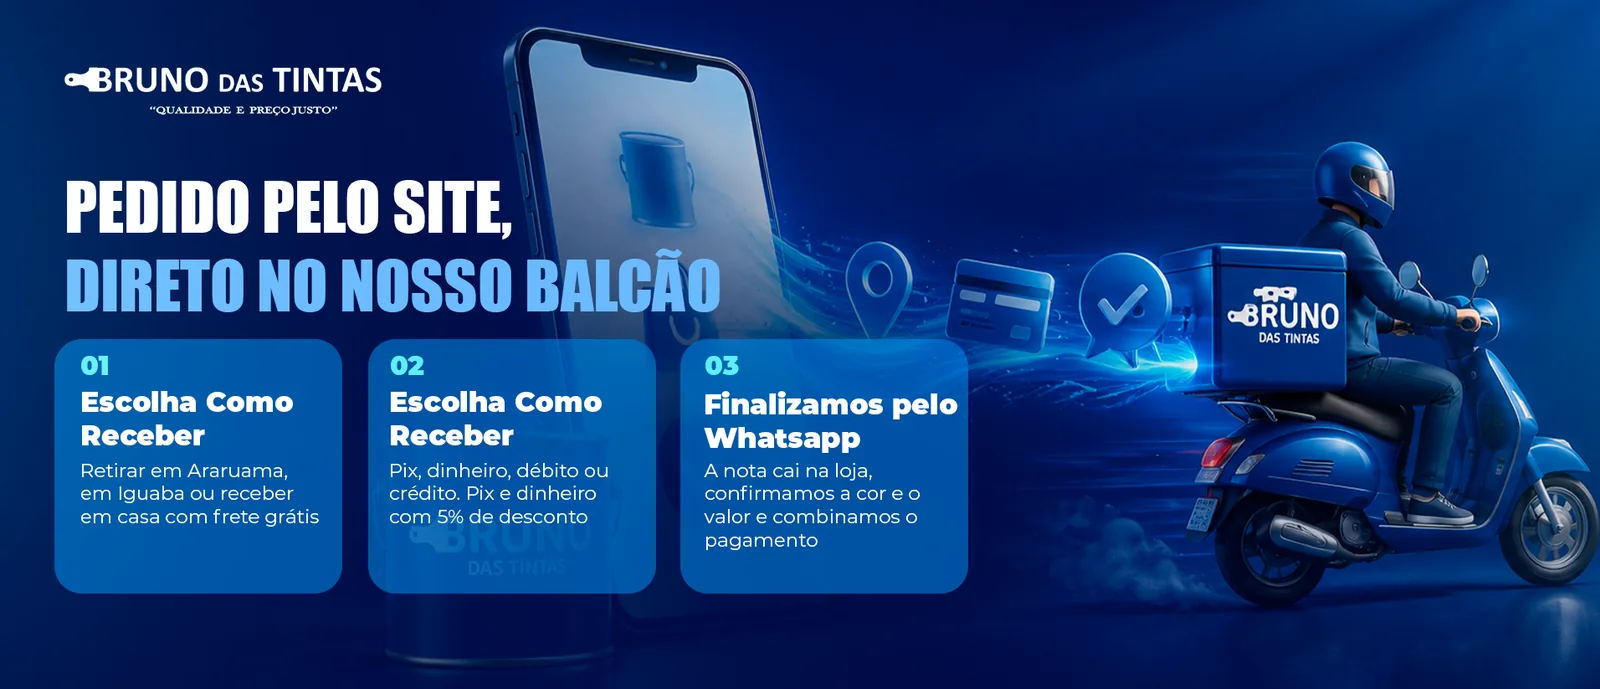
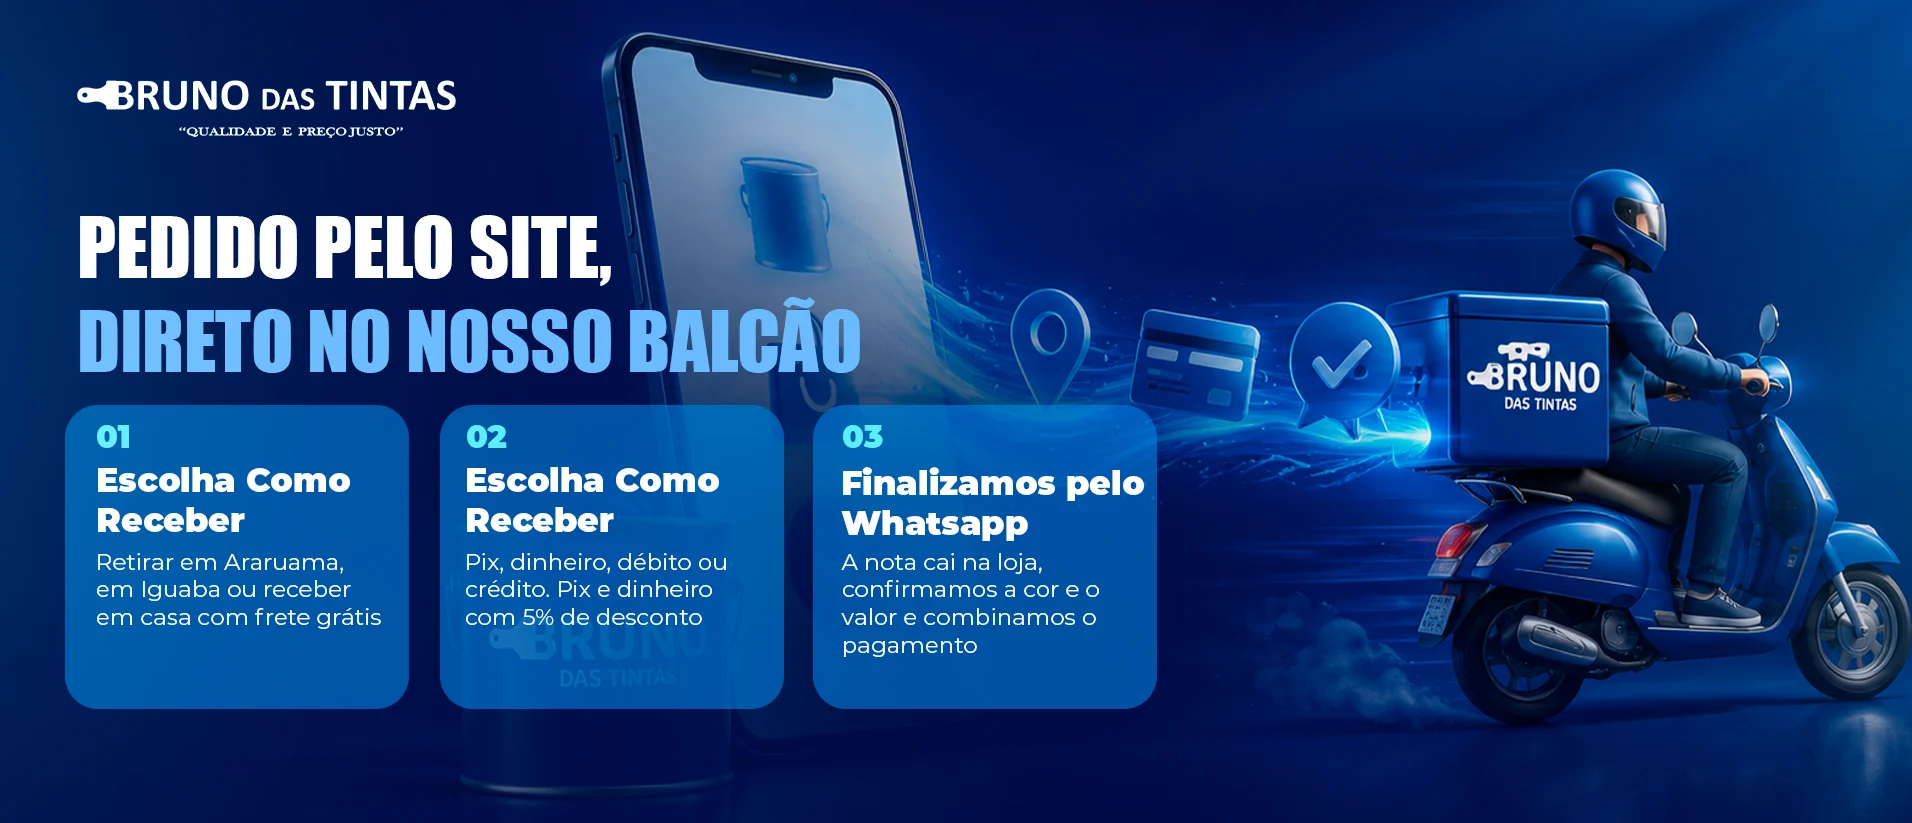
Põe as artes inteiras, na proporção original, também no celular
O Roberto reparou que eu tinha cortado as artes. Estava cortando em dois
níveis: recortava o arquivo E ainda aplicava object-fit:cover por cima.

Desfeitos os dois. Agora é uma arte por seção, nas dimensões originais
1912x823, o mesmo arquivo servindo as duas telas. Proporção medida na
tela: 2.3232, idêntica à do arquivo.

Saíram o <picture> com troca por breakpoint e as variantes -mobile: com
um arquivo só, não há como uma versão divergir da outra depois. E a arte
de "Como comprar", que era só-desktop, passa a aparecer no celular.

Custo assumido e registrado: 2.32 de proporção em 375px dá 161px de
altura, e o texto desenhado na arte fica pequeno. Por isso o título em
HTML continua acima dela no celular — ele é quem carrega a mensagem de
forma legível e indexável. A frase acaba aparecendo duas vezes na mesma
tela, uma em HTML e outra dentro da arte.

diff --git a/index.html b/index.html
@@ -119,13 +119,11 @@
     <p class="capa__sub">Confira nossa ampla variedade de tintas e acessórios e deixe sua casa nova.</p>
   </div>
 
-  <!-- picture em vez de duas <img> com display:none: assim o navegador baixa
-       exatamente uma arte, em vez de baixar as duas e descartar uma. -->
-  <picture>
-    <source media="(min-width:900px)" srcset="artes/capa-desktop.webp" width="1912" height="823">
-    <img class="capa__img" src="artes/capa-mobile.webp" width="1080" height="609" fetchpriority="high"
-         alt="Latas de Tinta Premium Rende Muito da Bruno das Tintas, com rolo e pincel">
-  </picture>
+  <!-- Uma arte só, nas dimensões originais (1912x823), nas duas telas.
+       Sem <picture> e sem recorte: a proporção é exatamente a que veio do
+       designer, e o celular mostra a arte inteira, só que menor. -->
+  <img class="capa__img" src="artes/capa.webp" width="1912" height="823" fetchpriority="high"
+       alt="Às vezes a sua casa não precisa de uma obra, precisa de uma pintura nova. Latas de Tinta Premium Rende Muito da Bruno das Tintas.">
 
   <div class="capa__ctas">
     <div class="wrap">
@@ -170,15 +168,8 @@
       <p>Escolha o que precisa e mande. A cor a gente acerta com você no WhatsApp — tem cor pronta e tem cor feita na máquina, depende da linha.</p>
     </div>
     <h2 class="sr-only so-desk">Monte seu pedido sem sair de casa</h2>
-    <!-- A arte existe nas duas telas, mas não é a mesma imagem: a versão de
-         desktop traz o título desenhado; a de celular é só a foto, porque ali
-         o título já é o <h2> em HTML logo acima e texto embutido em arte
-         larga fica ilegível em 375px. -->
-    <picture class="arte-secao">
-      <source media="(min-width:900px)" srcset="artes/secao-catalogo.webp" width="1600" height="689">
-      <img src="artes/secao-catalogo-mobile.webp" width="800" height="773" loading="lazy"
-           alt="Entregador da Bruno das Tintas de moto, com lata de Tinta Premium Rende Muito">
-    </picture>
+    <img class="arte-secao" src="artes/secao-catalogo.webp" width="1912" height="823" loading="lazy"
+         alt="Monte o seu pedido sem sair de casa. Entregador da Bruno das Tintas de moto, com lata de Tinta Premium Rende Muito.">
     <div class="busca">
       <svg width="18" height="18" viewBox="0 0 24 24" fill="none" stroke="#55688A" stroke-width="2" stroke-linecap="round"><circle cx="11" cy="11" r="7"/><path d="m20 20-3.5-3.5"/></svg>
       <input type="search" id="busca" placeholder="Buscar tinta, massa, rolo..." aria-label="Buscar produtos">
@@ -217,7 +208,7 @@
       <div class="passo"><div class="passo__n display">04</div><h3>A gente fecha no WhatsApp</h3><p>A nota cai na loja, confirmamos a cor e o valor, e combinamos o pagamento.</p></div>
     </div>
     <h2 class="sr-only so-desk">Pedido pelo site, direto no nosso balcão</h2>
-    <img class="arte-secao arte-secao--solta so-desk" src="artes/secao-como-comprar.webp" width="1600" height="689" loading="lazy"
+    <img class="arte-secao arte-secao--solta" src="artes/secao-como-comprar.webp" width="1912" height="823" loading="lazy"
          alt="Pedido pelo site, direto no nosso balcão. Passo 1: escolha como receber — retirar em Araruama, em Iguaba, ou receber em casa com frete grátis. Passo 2: escolha como pagar — PIX, dinheiro, débito ou crédito, com 5% de desconto no PIX e no dinheiro. Passo 3: finalizamos pelo WhatsApp — a nota cai na loja, confirmamos a cor e o valor e combinamos o pagamento.">
   </div>
 </section>

diff --git a/styles.css b/styles.css
@@ -248,14 +248,10 @@ a{color:inherit;text-decoration:none}
 }
 /* dentro de seção azul a arte já tem o próprio fundo: sem borda clara */
 .arte-secao--solta{border:none;box-shadow:none;margin-bottom:0}
-/* quando a arte é um <picture>, ele é o container arredondado e a <img> preenche */
-picture.arte-secao{display:block;overflow:hidden}
-picture.arte-secao img{width:100%;height:auto;display:block;border-radius:inherit}
-/* no celular a foto entra como faixa: altura controlada para não empurrar o
-   catálogo para baixo da dobra */
-@media (max-width:899px){
-  picture.arte-secao img{aspect-ratio:16/10;object-fit:cover;object-position:center 40%}
-}
+/* As artes entram INTEIRAS, na proporção original de 1912x823. Nada de
+   aspect-ratio forçado nem object-fit:cover aqui: qualquer um dos dois
+   recortaria a arte, e a composição é do designer, não minha. No celular ela
+   aparece menor, nunca cortada. */
 .secao--arte{padding:var(--e12) 0}
 
 .faixa-arte{display:block;line-height:0;border-radius:var(--raio-g);overflow:hidden;box-shadow:var(--sombra-alta)}

diff --git a/docs/ARQUITETURA-TELAS.md b/docs/ARQUITETURA-TELAS.md
@@ -9,25 +9,37 @@ Ponto de corte: **900px**.
 
 | # | Seção | Desktop (≥900px) | Celular (<900px) | Por quê |
 |---|---|---|---|---|
-| 1 | **Capa** | Arte inteira `capa-desktop.webp`, com título desenhado | Título em HTML + `capa-mobile.webp` (só as latas) | Texto embutido em arte de 2.32 fica com ~5px numa tela de 375px. No celular o título é HTML de verdade e a arte entra só como imagem. |
+| 1 | **Capa** | `capa.webp` inteira (1912×823) | A **mesma** `capa.webp` inteira, menor | Uma arte só, sem recorte. O título em HTML continua acima no celular, porque na arte reduzida ele fica pequeno demais para ler. |
 | 2 | **Destaque da semana** | Faixa horizontal, foto de 300px à esquerda | Card, miniatura de 68px ao lado do preço | Mesmo DOM, grid recoloca. O desktop tem largura sobrando; o celular não. |
 | 3 | **Setores** | 4 cards | 4 cards em trilho rolável | Igual nas duas. |
-| 4 | **Catálogo** | Arte `secao-catalogo.webp`, com título desenhado | Título em HTML + `secao-catalogo-mobile.webp` (motoboy e lata) | Mesma lógica da capa. |
+| 4 | **Catálogo** | `secao-catalogo.webp` inteira | A **mesma**, inteira, menor | Mesma regra da capa. |
 | 5 | **Marcas** | Trilho | Trilho | Igual. |
-| 6 | **Como comprar** | Arte `secao-como-comprar.webp` — os 3 passos estão desenhados nela | 4 cards de passo em HTML, **sem arte** | Aqui os passos são conteúdo, não enfeite. No celular eles precisam ser texto legível e selecionável. Uma imagem a mais só empurraria os passos para baixo. |
+| 6 | **Como comprar** | `secao-como-comprar.webp` inteira | A **mesma**, inteira, mais os 4 cards de passo em HTML | A arte aparece nas duas telas. Os 4 cards continuam no celular porque ali os passos precisam ser texto legível. |
 | 7 | **Lojas** | 2 cards lado a lado | 2 cards empilhados | Igual em conteúdo. |
 
 ## Regras que valem para o site inteiro
 
-1. **Arte com texto embutido nunca vai inteira para o celular.** O celular recebe
-   o recorte da imagem, e o texto vira HTML.
-2. **Uma imagem por tela, nunca duas.** Toda troca de arte usa `<picture>` com
-   `media`, então o navegador baixa exatamente a que vai mostrar. Antes existiam
-   duas `<img>` com `display:none` e as duas eram baixadas.
+1. **Arte nunca é recortada.** Uma imagem por arte, nas dimensões originais
+   (1912×823, proporção 2.3232), igual nas duas telas. No celular ela aparece
+   menor, nunca cortada. Nada de `object-fit:cover` nem `aspect-ratio` forçado
+   sobre arte — a composição é do designer.
+2. **Uma imagem por arte, nunca duas.** Sem `<picture>` e sem variante por
+   tamanho: o mesmo arquivo serve as duas telas, então não há como uma versão
+   divergir da outra com o tempo.
 3. **O `<h1>` existe nas duas telas.** No desktop o bloco de texto da capa fica
    só para leitor de tela, porque a arte já mostra a mensagem.
 4. **Conteúdo não desaparece numa tela.** O que muda é a forma. A única exceção
    é a linha 6, e ela está justificada acima.
+
+## Custo assumido nessa escolha
+
+Arte de 2.32 numa tela de 375px fica com **161px de altura**, e o texto
+desenhado dentro dela fica pequeno. Por isso o título em HTML continua acima
+da arte no celular: ele é quem carrega a mensagem de forma legível, indexável
+e selecionável. A consequência é que a frase aparece duas vezes na mesma tela —
+uma em HTML, outra dentro da arte.
+
+Foi decisão do Roberto (17/08): arte inteira, sem corte, mesmo com esse custo.
 
 ## Divergência conhecida, ainda aberta
 
